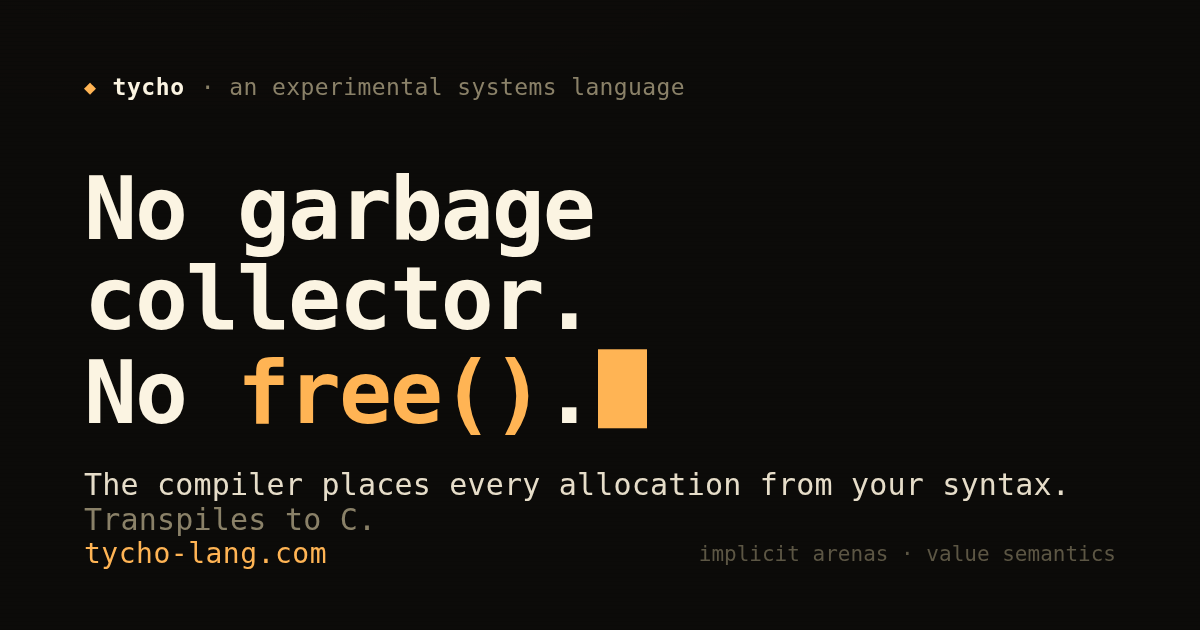
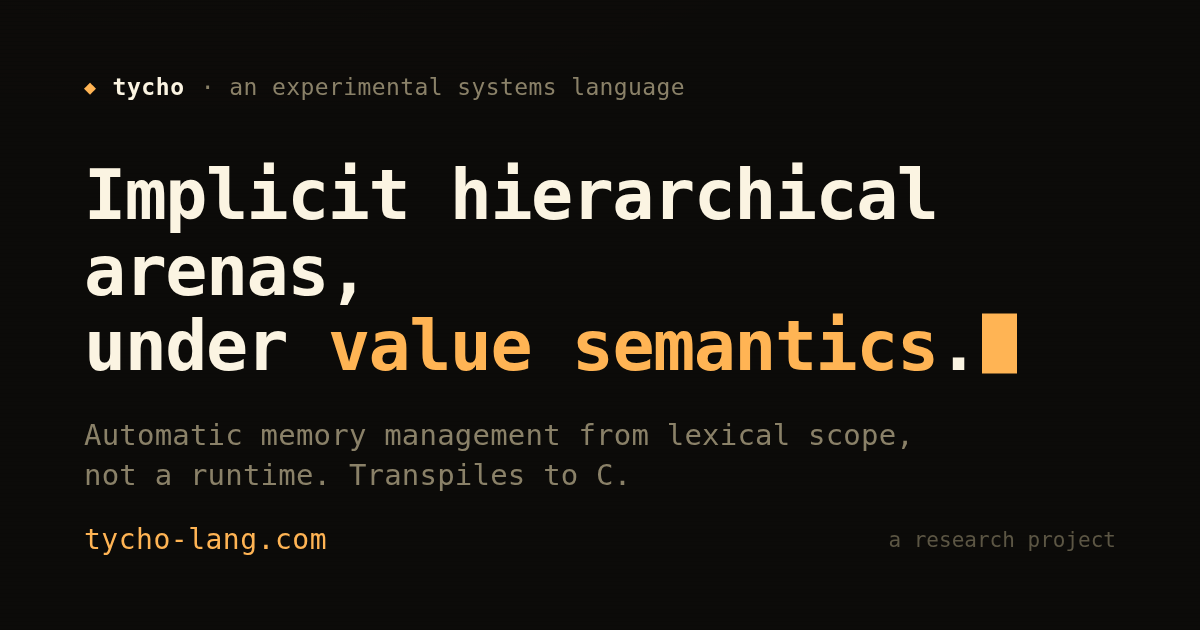
site: drop the marketing — no number-bragging, no slogans, no cross-language comparisons; match the README's honest voice

diff --git a/index.html b/index.html
@@ -3,13 +3,13 @@
 <head>
 <meta charset="utf-8">
 <meta name="viewport" content="width=device-width, initial-scale=1">
-<title>Tycho — a systems language with no GC and no free()</title>
-<meta name="description" content="Tycho is an experimental systems language testing one idea: implicit hierarchical arenas under value semantics. No garbage collector, no manual free — the compiler places every allocation from your syntax alone. Transpiles to C.">
+<title>Tycho — an experimental systems language</title>
+<meta name="description" content="Tycho is an experimental systems language and a research project, built to test one idea: implicit hierarchical arenas under value semantics. Automatic memory management from lexical scope. Transpiles to C.">
 <meta name="theme-color" content="#0c0b09">
 <meta property="og:type" content="website">
 <meta property="og:url" content="https://tycho-lang.com">
-<meta property="og:title" content="Tycho — no GC, no free()">
-<meta property="og:description" content="An experimental systems language: implicit hierarchical arenas under value semantics. The compiler places every allocation from your syntax. Transpiles to C.">
+<meta property="og:title" content="Tycho — an experimental systems language">
+<meta property="og:description" content="A research project testing one idea: implicit hierarchical arenas under value semantics. Automatic memory management from lexical scope, not a runtime. Transpiles to C.">
 <meta property="og:image" content="https://tycho-lang.com/og.png">
 <meta property="og:image:width" content="1200">
 <meta property="og:image:height" content="630">
@@ -192,11 +192,12 @@
 
   <header class="hero">
     <p class="eyebrow rise d1"><span class="tick">◇</span> an experimental systems language · transpiles to C</p>
-    <h1 class="rise d2">No garbage collector.<br>No <span class="amp">free()</span>.<span class="cur" aria-hidden="true"></span></h1>
+    <h1 class="rise d2">Implicit hierarchical arenas,<br>under <span class="amp">value semantics</span>.<span class="cur" aria-hidden="true"></span></h1>
     <p class="lede rise d3">
-      Tycho has no reference type, so the compiler sees every value's lifetime from the
-      syntax alone — and places <b>every allocation and free itself</b>, from lexical scope
-      rather than a runtime. <span class="sub">One idea: implicit hierarchical arenas under value semantics.</span>
+      Tycho is a research project built to test one idea. Each scope owns a memory arena,
+      freed when the scope exits; with no reference type in the language, the compiler sees
+      every value's lifetime from the syntax and inserts every allocation and free itself.
+      <span class="sub">Automatic memory management from lexical scope, not a runtime — and no manual `free`.</span>
     </p>
     <pre class="rise d4"><code><span class="k">fn</span> <span class="fn">greet</span>(name: <span class="k">string</span>) -> <span class="k">string</span>:
     <span class="k">return</span> <span class="s">"hello "</span> + name
@@ -250,16 +251,12 @@
       <div class="row"><span class="tag">local</span><span class="txt">No cloud CI to take on faith. <span class="cmd">make ci</span> runs the whole gate on your machine.</span></div>
     </div>
 
-    <div class="nums">
-      <div><div class="big">56×</div><small>less peak memory than a GC language on a string-built-in-a-loop workload</small></div>
-      <div><div class="big">239×</div><small>faster on that same workload — the arena payoff, made concrete</small></div>
-      <div><div class="big">≈1.0×</div><small>the self-hosted compiler's cost against the C reference, compiling itself</small></div>
-    </div>
-    <p class="caveat">
-      Figures are measured and machine-specific, so the cross-language <em>ratios</em> are the
-      claim, not the absolute numbers — and the advantage is real but <em>concentrated</em>:
-      pointer-shaped data (graphs, trees) still costs about 1.55× C in this model. The programs
-      behind the numbers run in CI on both compilers, output checked byte-for-byte.
+    <p class="muted">
+      Where the model helps and where it costs are both measured — as machine-specific ratios,
+      with the workloads that produce them — in the
+      <a href="https://github.com/StefanVonRanda/tycho/blob/main/docs/guides/perf.md">performance notes</a>.
+      Pointer-shaped data (graphs, trees) is where value semantics is least free; the docs are
+      honest about that, not just about the wins.
     </p>
   </section>
 
@@ -297,7 +294,7 @@
   </section>
 
   <footer>
-    <p class="tagline">Tycho — <b>an experiment, checked hard.</b></p>
+    <p class="tagline">A research project. The source, the checks, and the honest caveats are all in the repo.</p>
     <div class="meta">
       <span>MIT licensed</span>
       <a href="https://github.com/StefanVonRanda/tycho">github.com/StefanVonRanda/tycho</a>